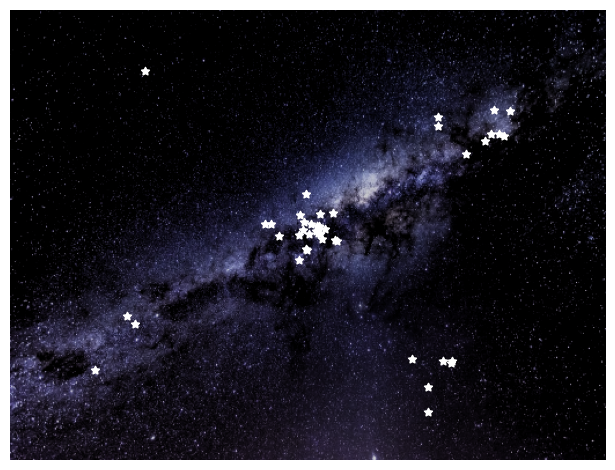
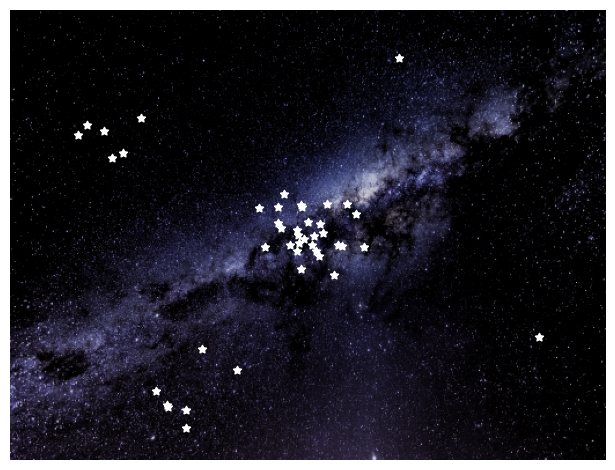
frontend

diff --git a/Kyusei.py b/Kyusei.py
@@ -1,0 +1,50 @@
+import streamlit as st
+import numpy as np
+import pandas as pd
+import time
+from PIL import Image
+from make_clusters import compute_clusters
+from plot_universe import generate_galaxies, plot_stars
+import matplotlib.pyplot as plt
+
+st.markdown("""
+<style>
+.color-font {
+    font-size:100px !important;
+    color: "red";
+}
+</style>
+""", unsafe_allow_html=True)
+st.markdown('<p class="color-font">Kyusei</p>', unsafe_allow_html=True)
+
+
+st.subheader("Repositories")
+# for i in range(5):
+repo_names = ['requests', 'scrapy', 'fastapi', 'rich', 'textual', 'httpx', 'pydantic', 'tqdm', 'bokeh', 'sanic', 'dash', 'mangadex', 'pyseto', 'Slicer', 'pytago', 'earthquakes',
+              'dvc', 'aiospotify', 'ray', 'ruck', 'quimb', 'fileseq', 'Lean', 'merk', 'pe', 'Ignition', 'Cura', 'nextpnr', 'onlineshop', 'labyrinth', 'sentry', 'flask', 'httpie']
+
+button_array = [st.checkbox(i) for i in repo_names]
+
+if st.button("Submit"):
+    arr = [repo_names[i] for i in range(len(repo_names)) if button_array[i]]
+    if len(arr)<5:
+        eps = 0.05
+    elif len(arr)<10:
+        eps = 0.035
+    elif len(arr)<15:
+        eps=0.015
+    else:
+        eps=0.0075
+    results_clusters = compute_clusters(arr)
+    base_angle = np.pi*np.random.random()
+    points_arr, centroid_arr = generate_galaxies(results_clusters, base_angle=base_angle)
+    st.write(pd.DataFrame(results_clusters))
+    plot_stars(points_arr, centroid_arr)
+    i = 0
+    imageLocation = st.empty()
+    while True:
+        imageLocation.image('stars.png')
+        points_arr, centroid_arr = generate_galaxies(results_clusters, base_angle=base_angle+i*0.05)
+        plot_stars(points_arr, centroid_arr)
+        time.sleep(0.05)
+        i += 1

diff --git a/plot_universe.py b/plot_universe.py
@@ -2,15 +2,17 @@ import matplotlib.pyplot as plt
 import numpy as np
 import cv2
 
-def generate_galaxies(results_clusters):
+def generate_galaxies(results_clusters, base_angle=True, seed=0):
+	np.random.seed(seed)
 	labels = np.array([int(i) for i in results_clusters.T[-1]])
 	cluster_labels, counts = np.unique(labels, return_counts=True)
 	indexes = np.argsort(counts)[::-1]
 	counts = counts[indexes]
 	cluster_labels = cluster_labels[indexes]
 	points_arr = []
-	base_angle = np.pi*np.random.random()
 	centroid_arr = []
+	if base_angle==True:
+		base_angle = np.pi*np.random.random()
 	for i_enum, label in enumerate(cluster_labels):
 		indexes = np.argwhere(labels==label).flatten()
 		points = np.random.normal(loc=0.0, scale=np.random.random()*0.08+0.07, size=(len(indexes), 2))

diff --git a/make_clusters.py b/make_clusters.py
@@ -39,9 +39,9 @@ def pull_repos(repos):
 		distance_matrix += distance_matrix_embed*weight
 	return repo_keys, distance_matrix
 
-def compute_clusters(repos):
+def compute_clusters(repos, eps=0.075):
 	repo_keys, distance_matrix = pull_repos(repos)
-	clustering = DBSCAN(eps=0.075, metric='precomputed')
+	clustering = DBSCAN(eps=eps, metric='precomputed')
 	clustering.fit(distance_matrix)
 	results = np.concatenate((repo_keys.T, [clustering.labels_]), 0)
 	return results.T
